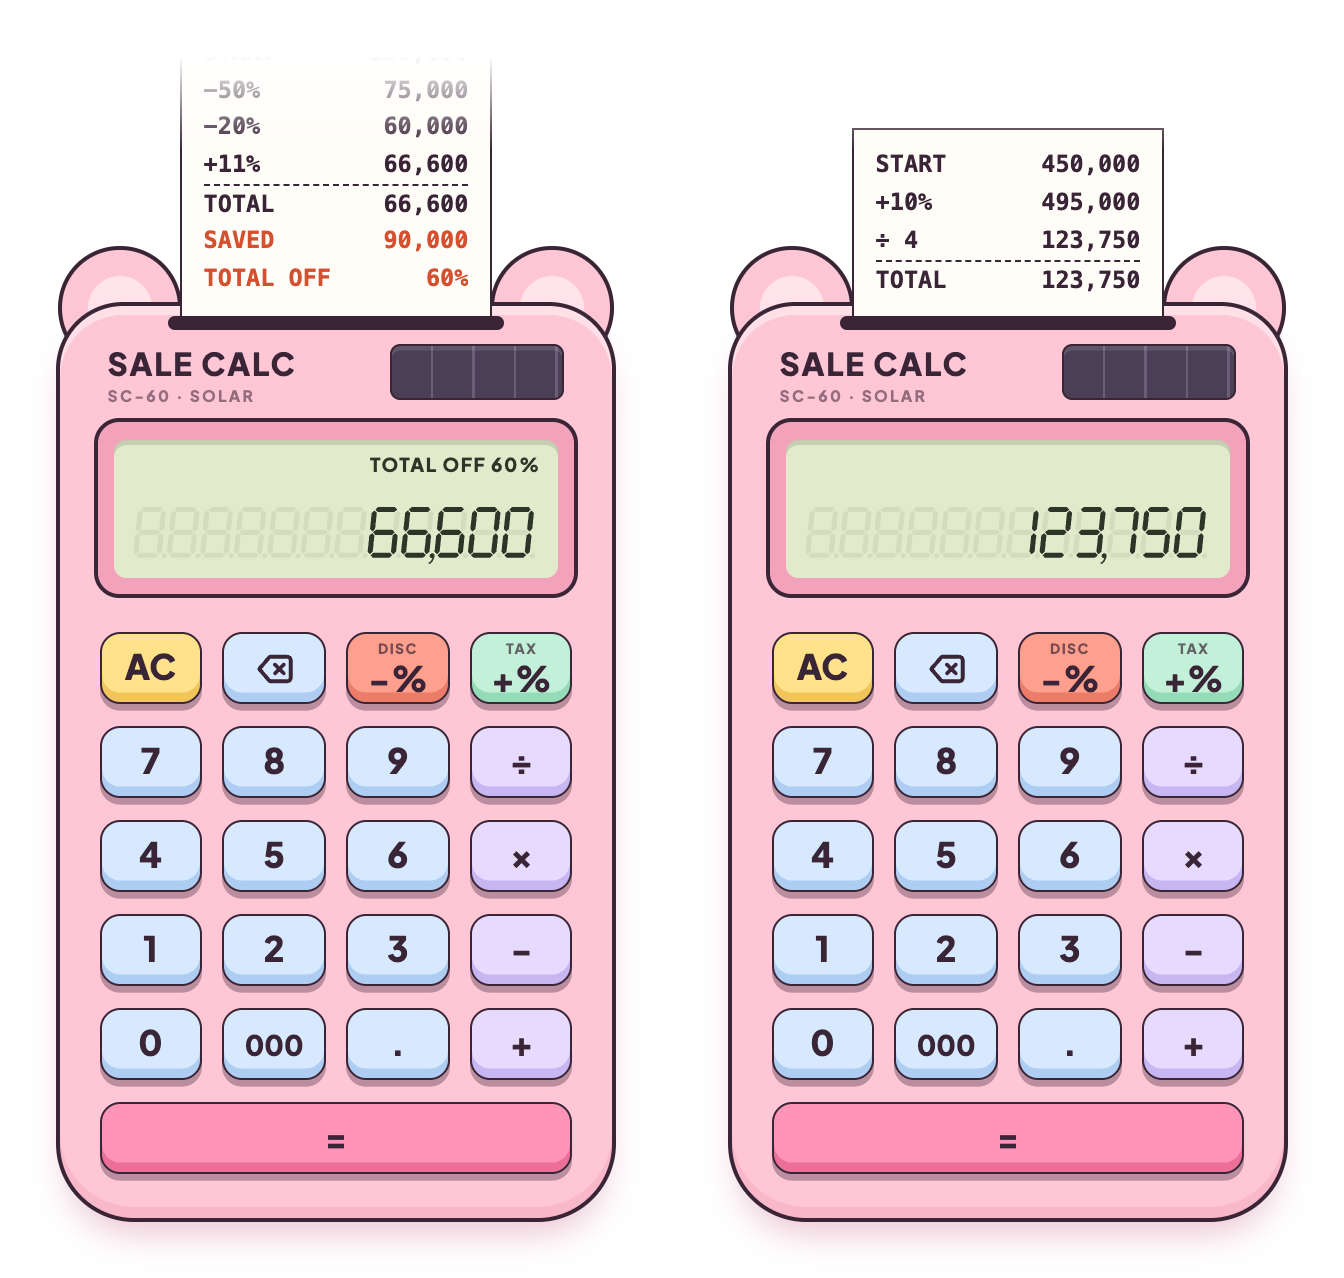
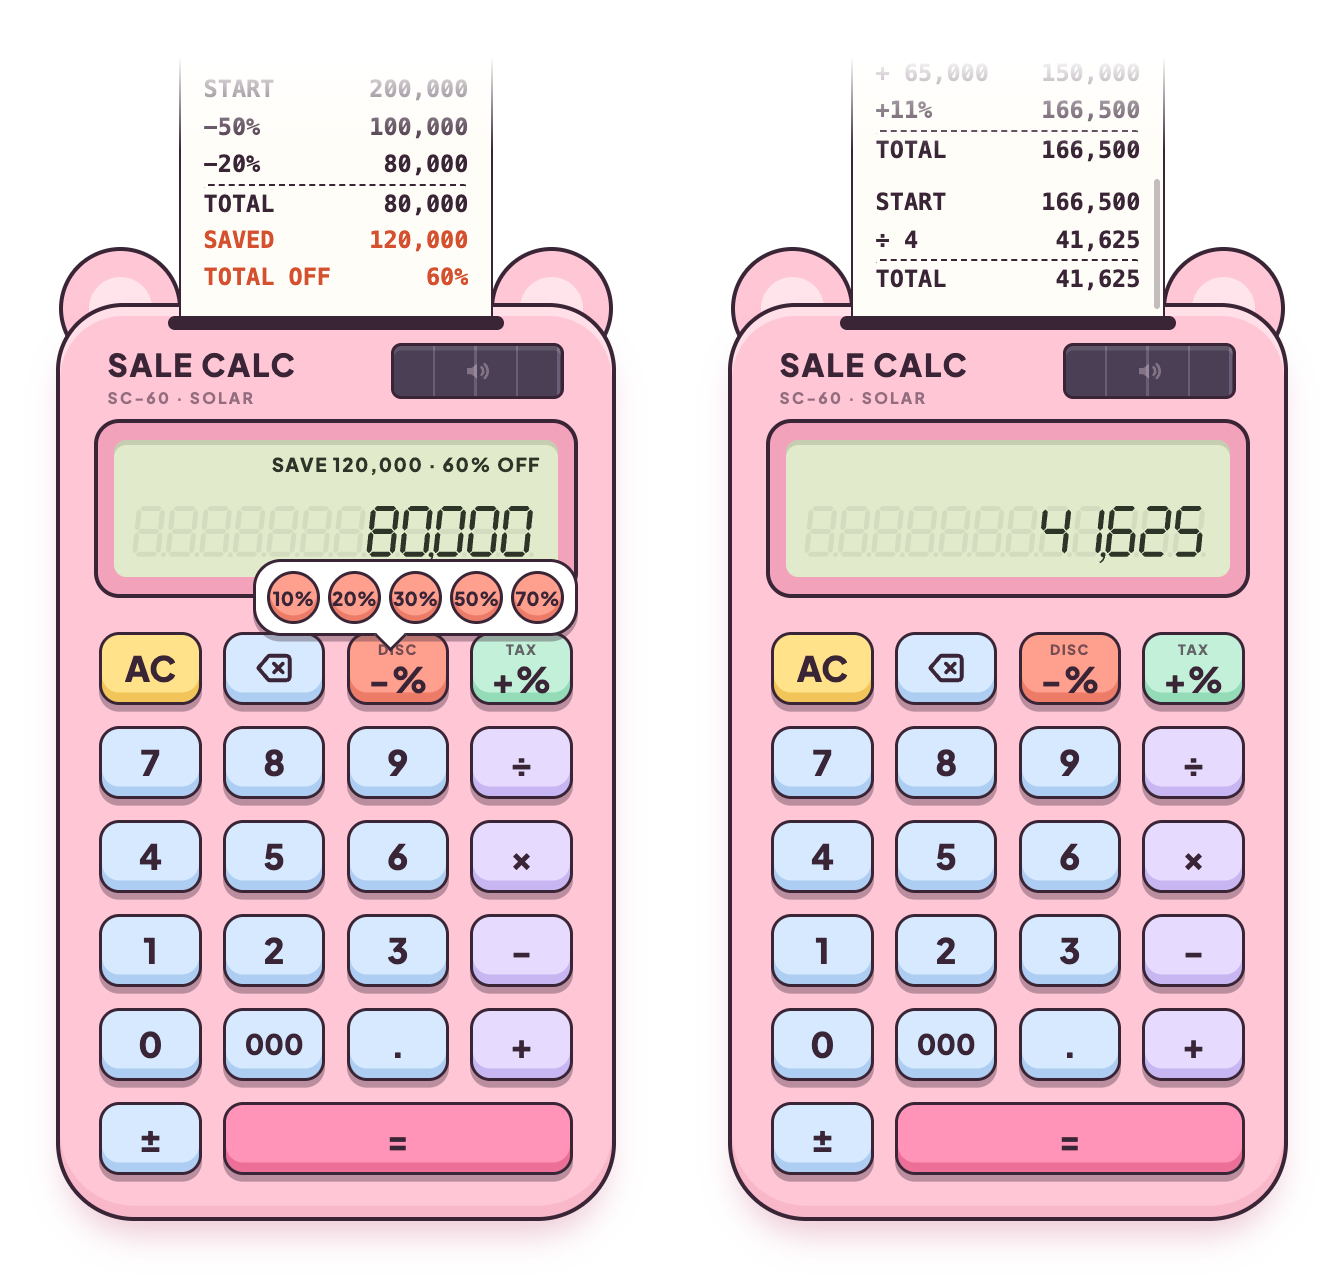
Refresh README with new screenshot, demo GIF and live link

diff --git a/README.md b/README.md
@@ -1,10 +1,14 @@
-# 🧮 Sale Calc
+# Sale Calc
 
-A tiny pink calculator for **shopping math**. Stack discounts, add tax or a service charge, and split the bill while a little paper tape prints every step, so you can see that 50% off plus another 20% off is really **60% off**, not 70%. It runs in any modern browser, and it also builds into a small macOS app where only the calculator floats on your desktop.
+A tiny pink calculator for **shopping math**. Stack discounts, add tax or a service charge, and split the bill while a little paper tape prints every step, so you can see that 50% off plus another 20% off is really **60% off**, not 70%, and how much you **save**. Hold the discount key for one-tap 10, 20, 30, 50, or 70% off. It runs in any modern browser, and it also builds into a small macOS app where only the calculator floats on your desktop.
 
-![Sale Calc: two stacked discounts plus tax, and a bill split four ways](screenshot.png)
+![Sale Calc: 50% then 20% off with the quick-discount menu open, and a bill with 11% tax split four ways](screenshot.png)
+
+![Sale Calc in action: holding the discount key for 50% off, then another 20%, and the tape prints the savings](demo.gif)
 
 ## Try it
+
+Open it right in your browser at **[gianneangely.github.io/sale-calc](https://gianneangely.github.io/sale-calc/)**, or get your own copy:
 
 ```bash
 git clone https://github.com/GianneAngely/sale-calc.git
